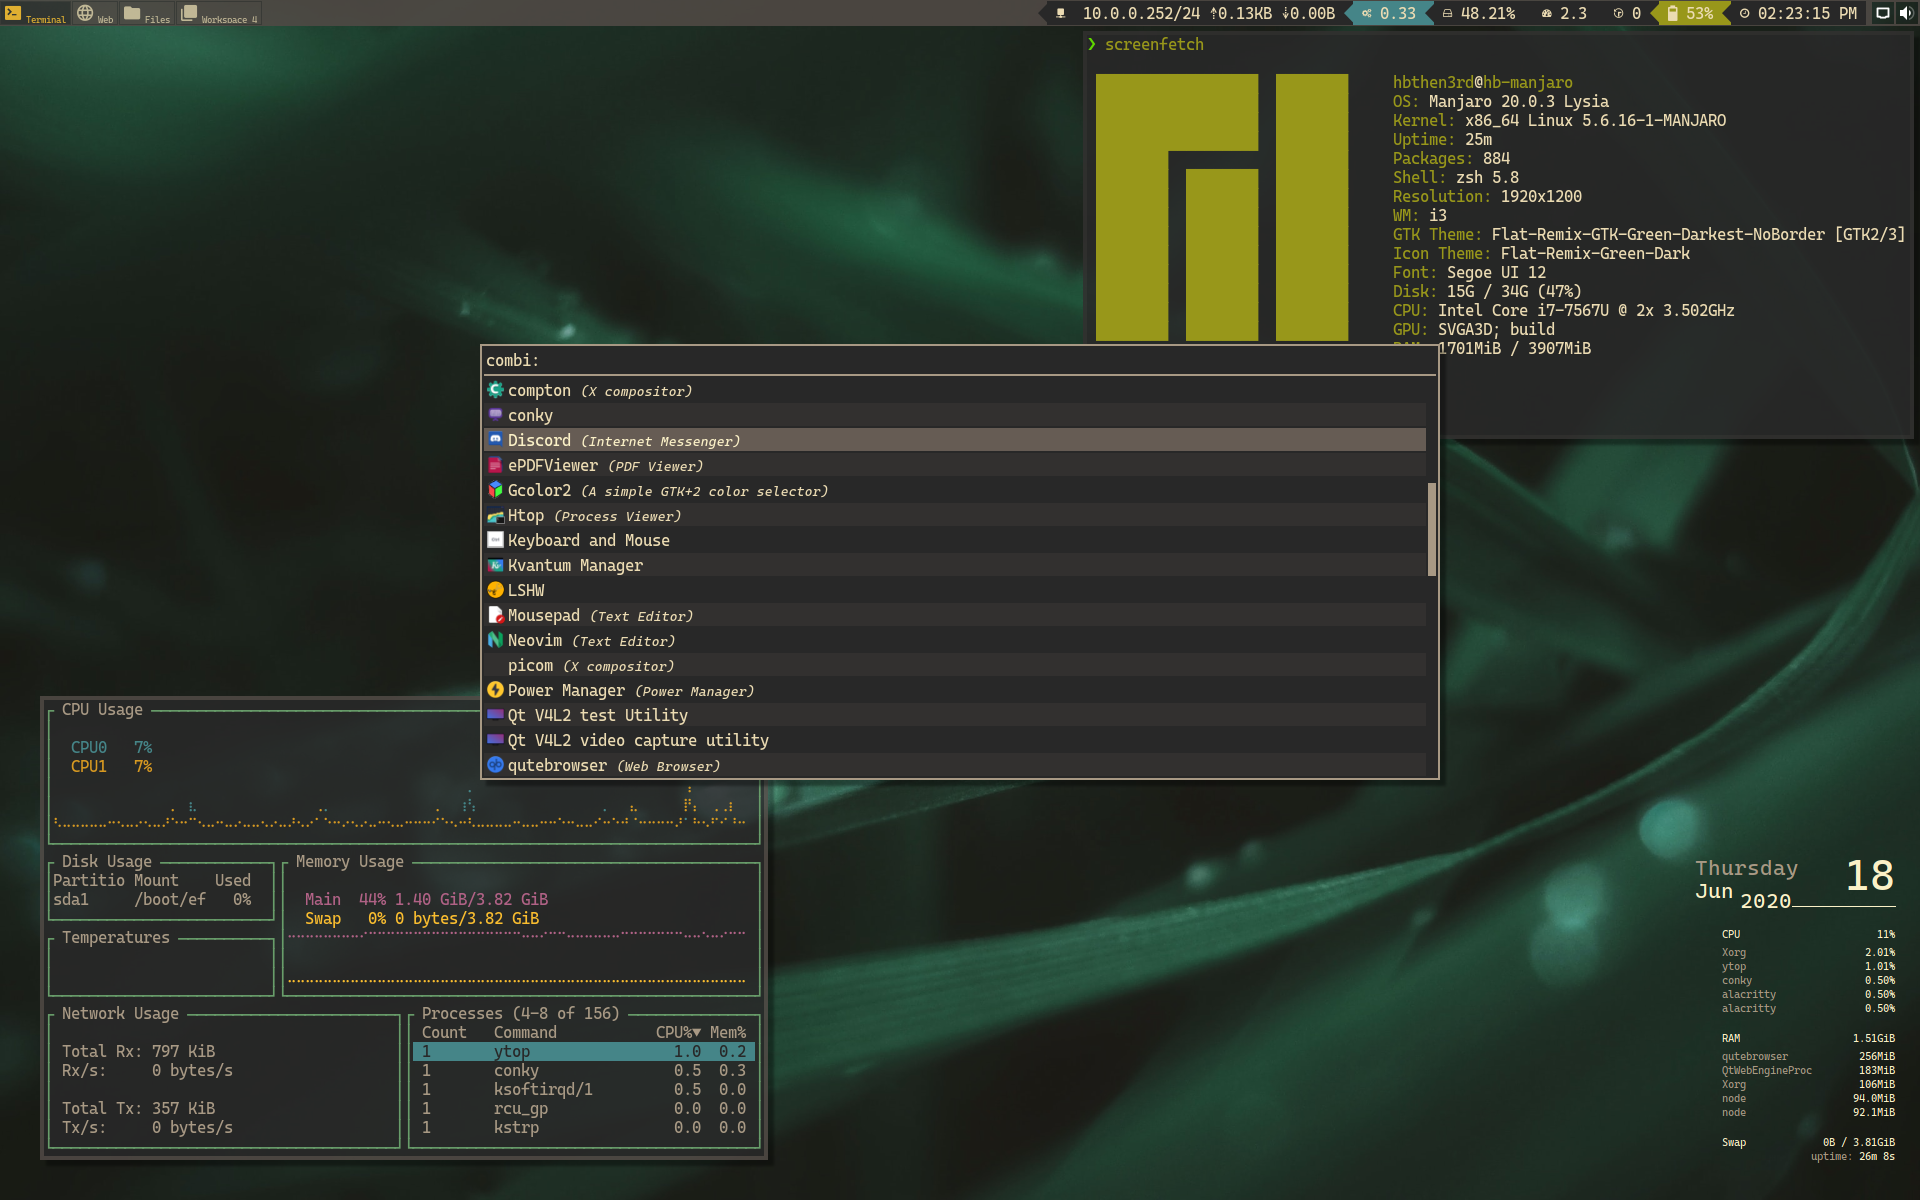
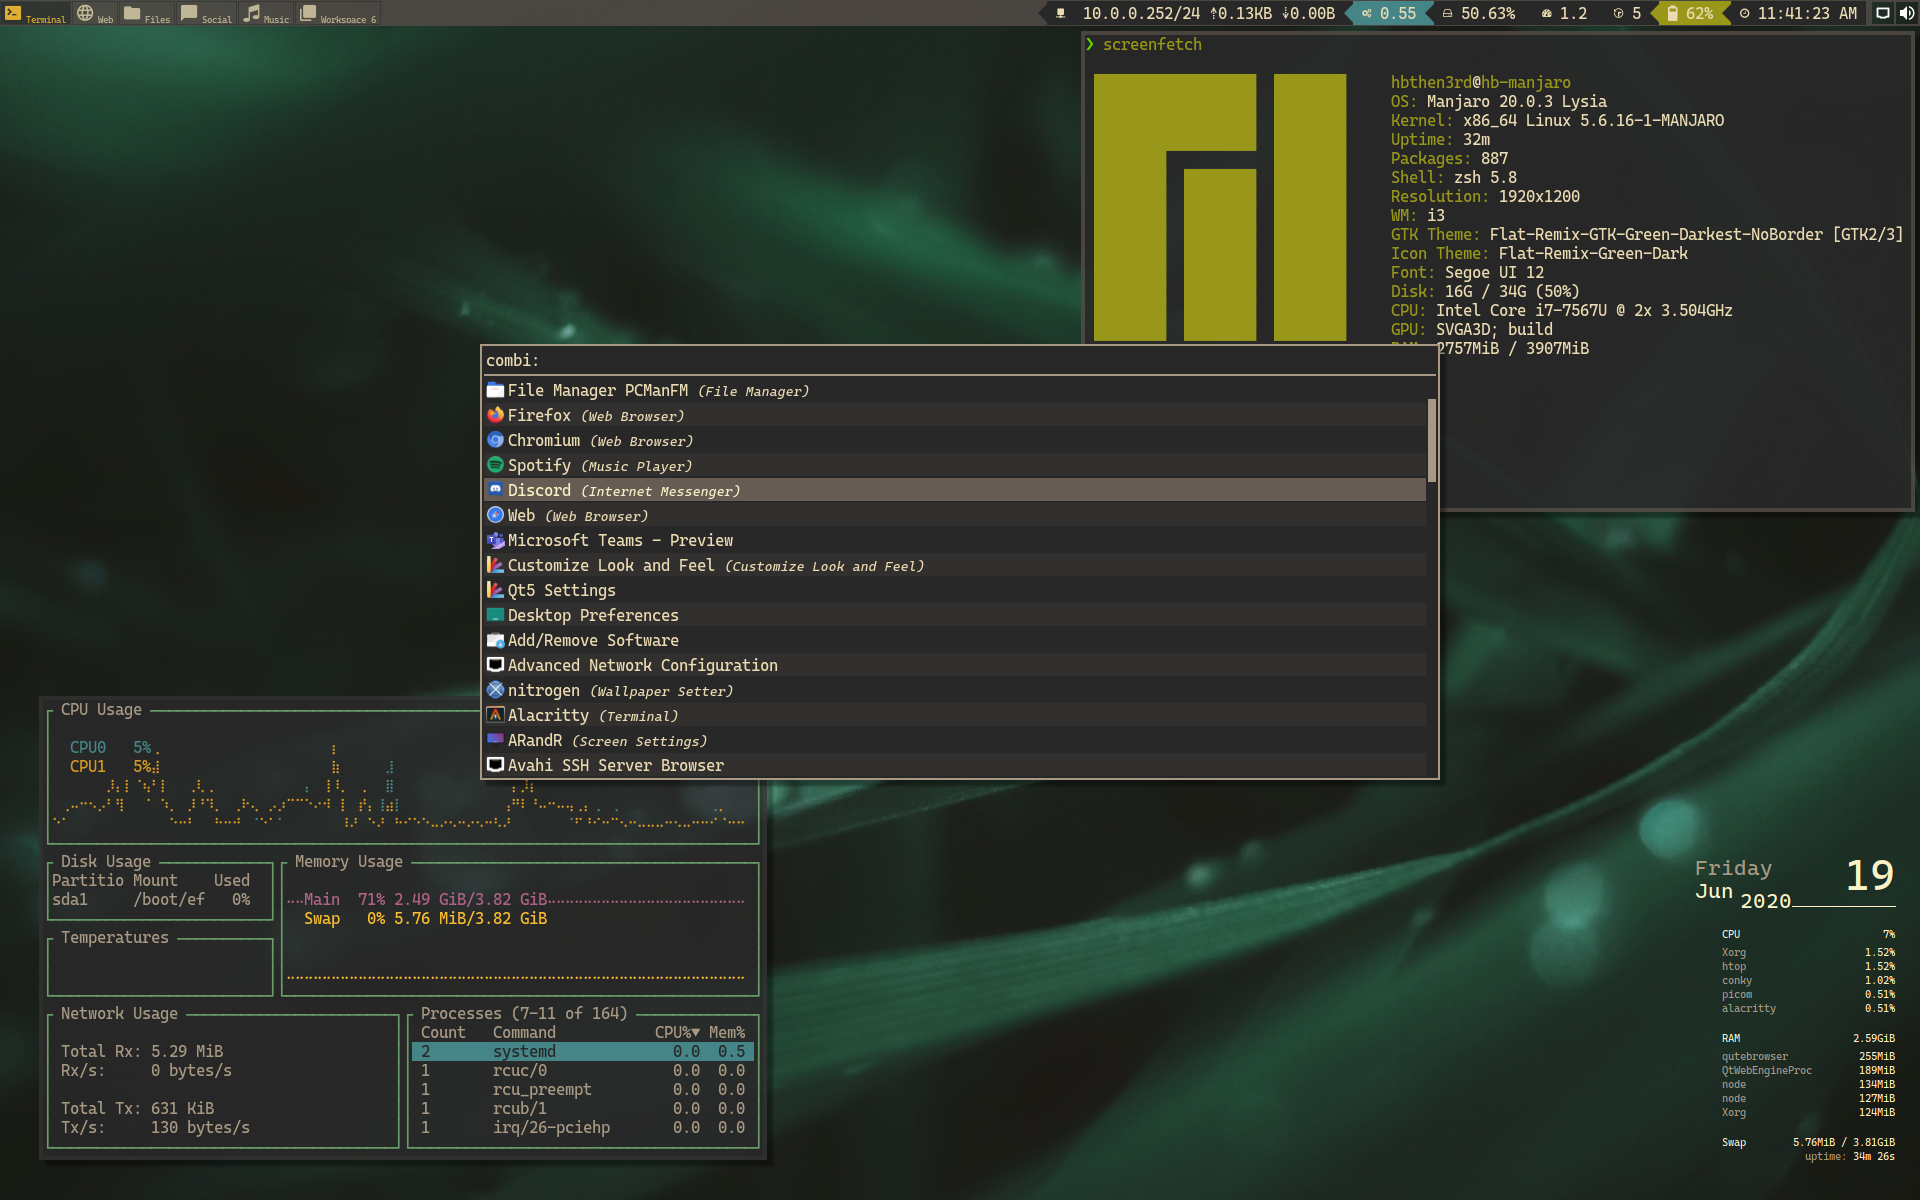
vim commenter + i3 social/music + conky format + screenshot 4

diff --git a/README.md b/README.md
@@ -5,6 +5,7 @@
 ![Screenshot 1](/screenshot1.png?raw=true 'Screenshot 1')
 ![Screenshot 2](/screenshot2.png?raw=true 'Screenshot 2')
 ![Screenshot 3](/screenshot3.png?raw=true 'Screenshot 3')
+![Screenshot 4](/screenshot4.png?raw=true 'Screenshot 4')
 
 ## OS
 
